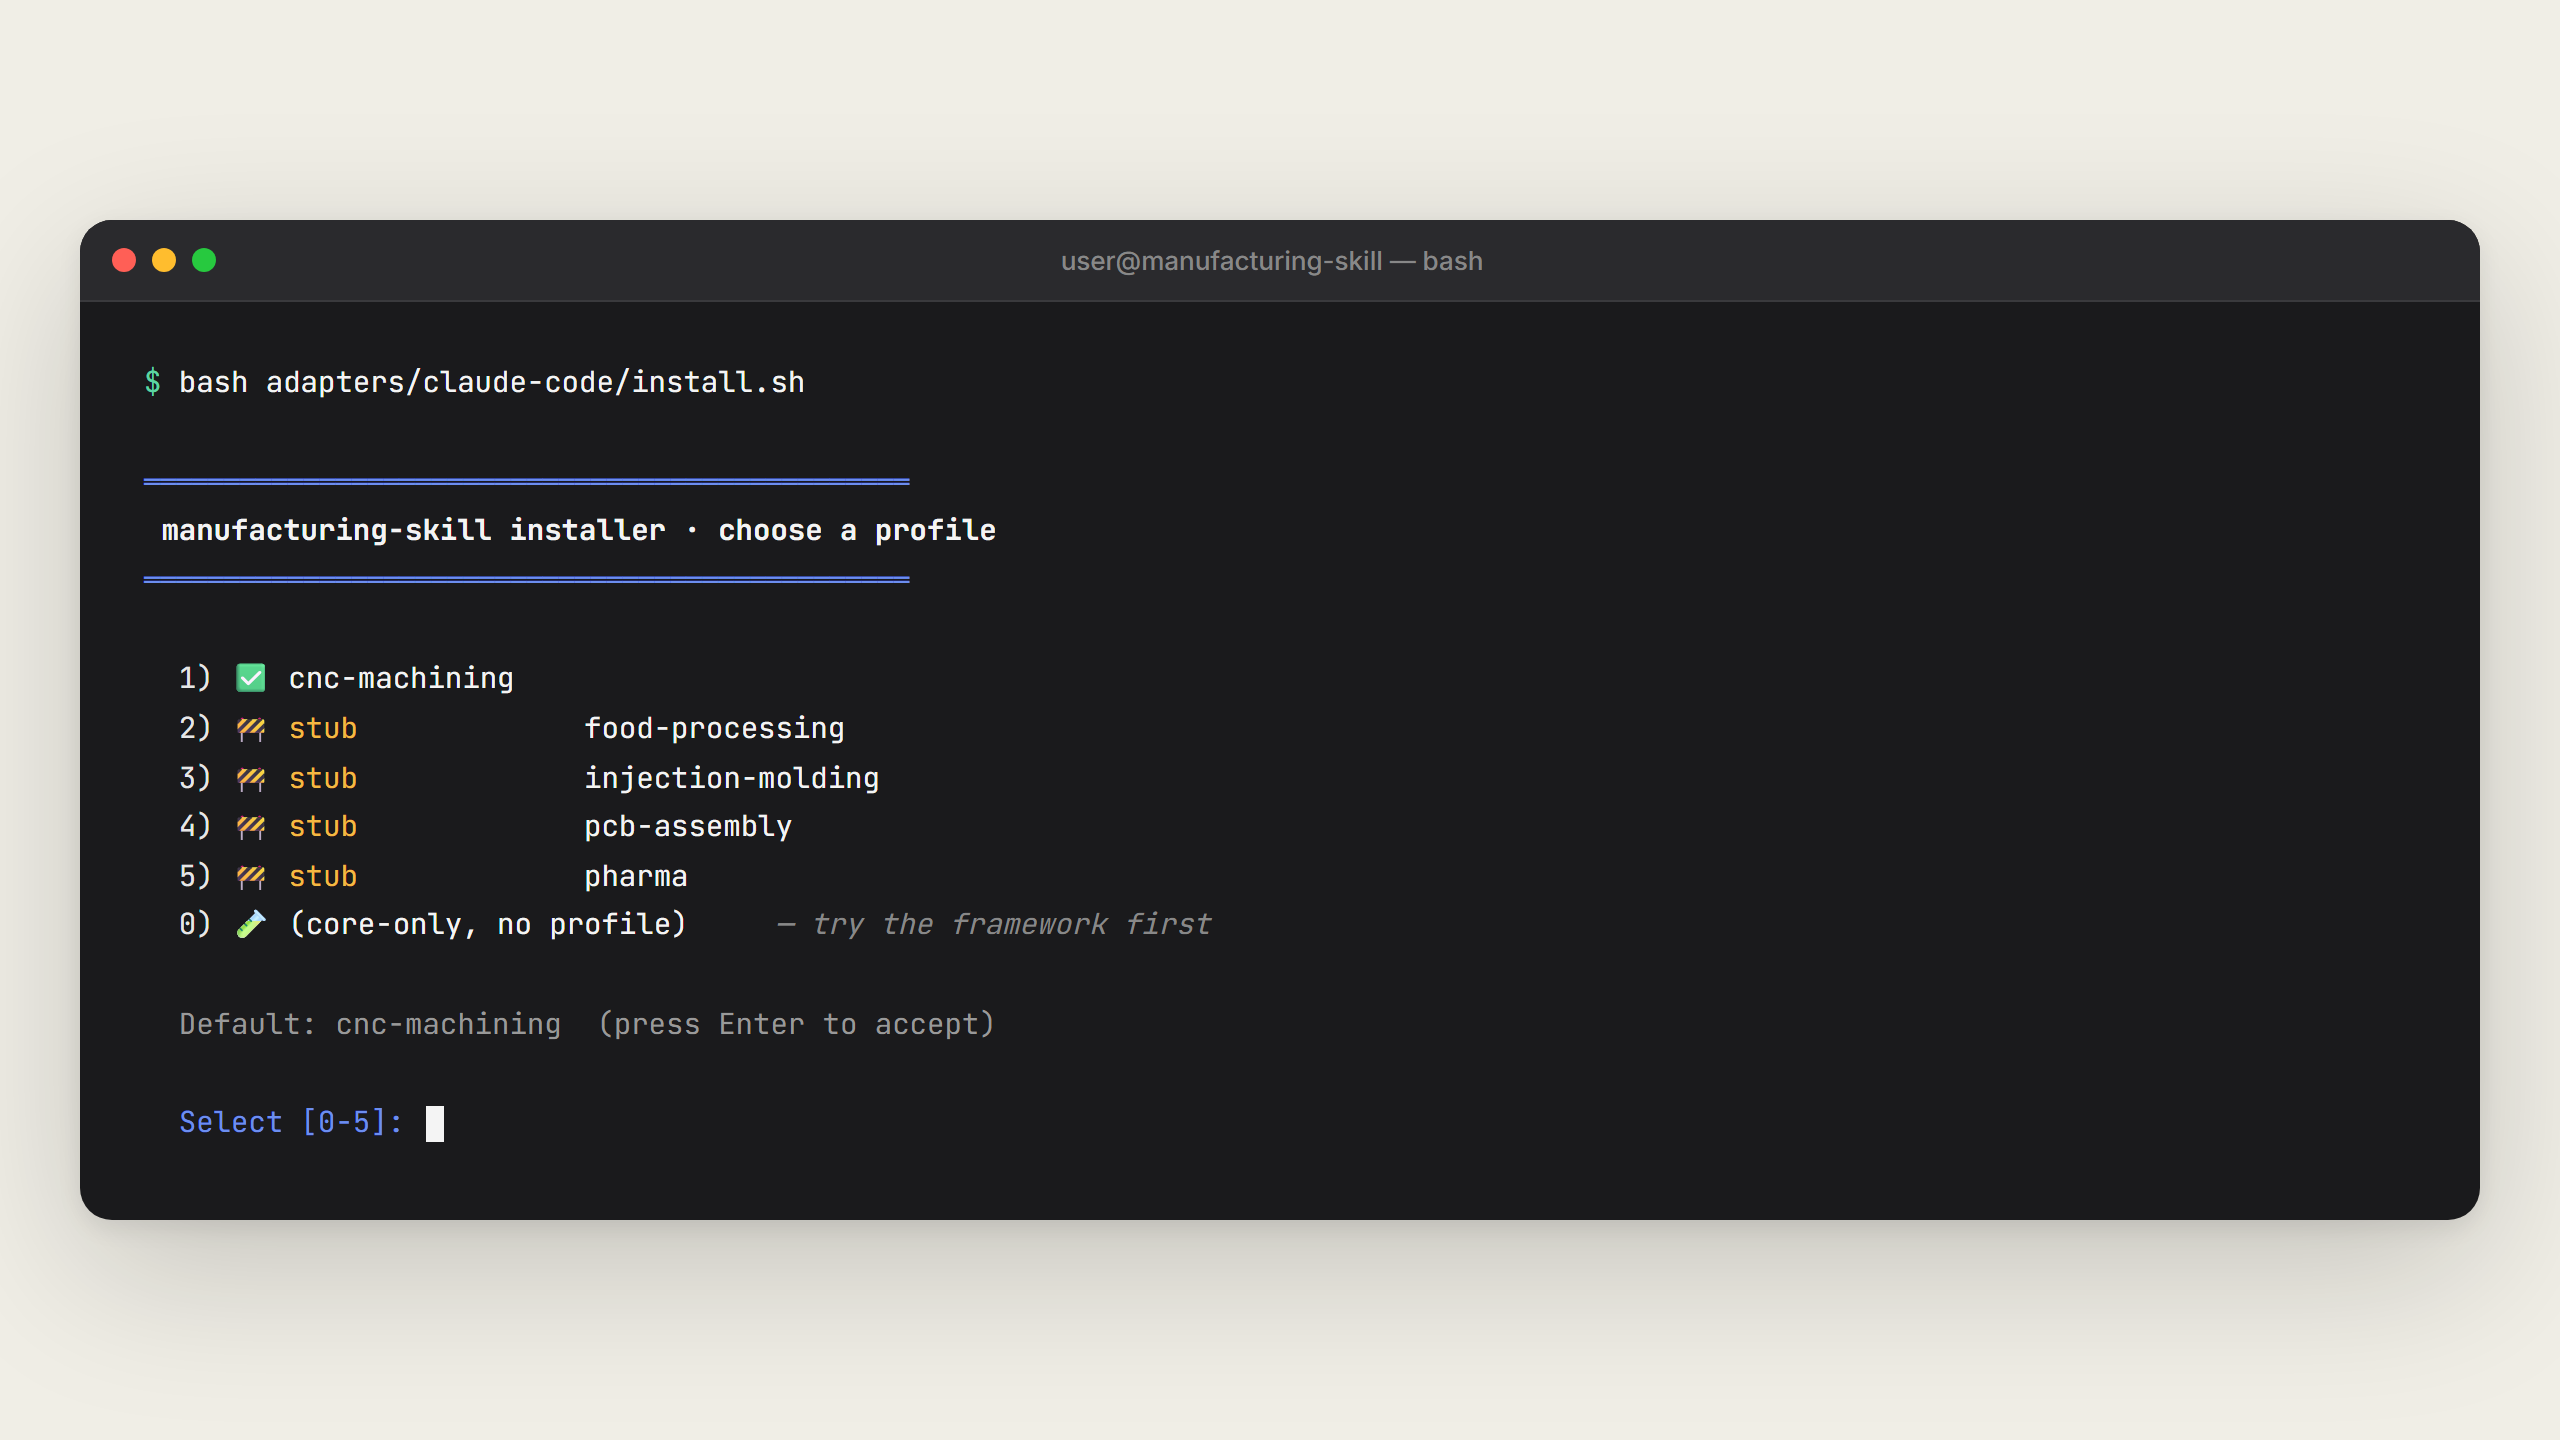
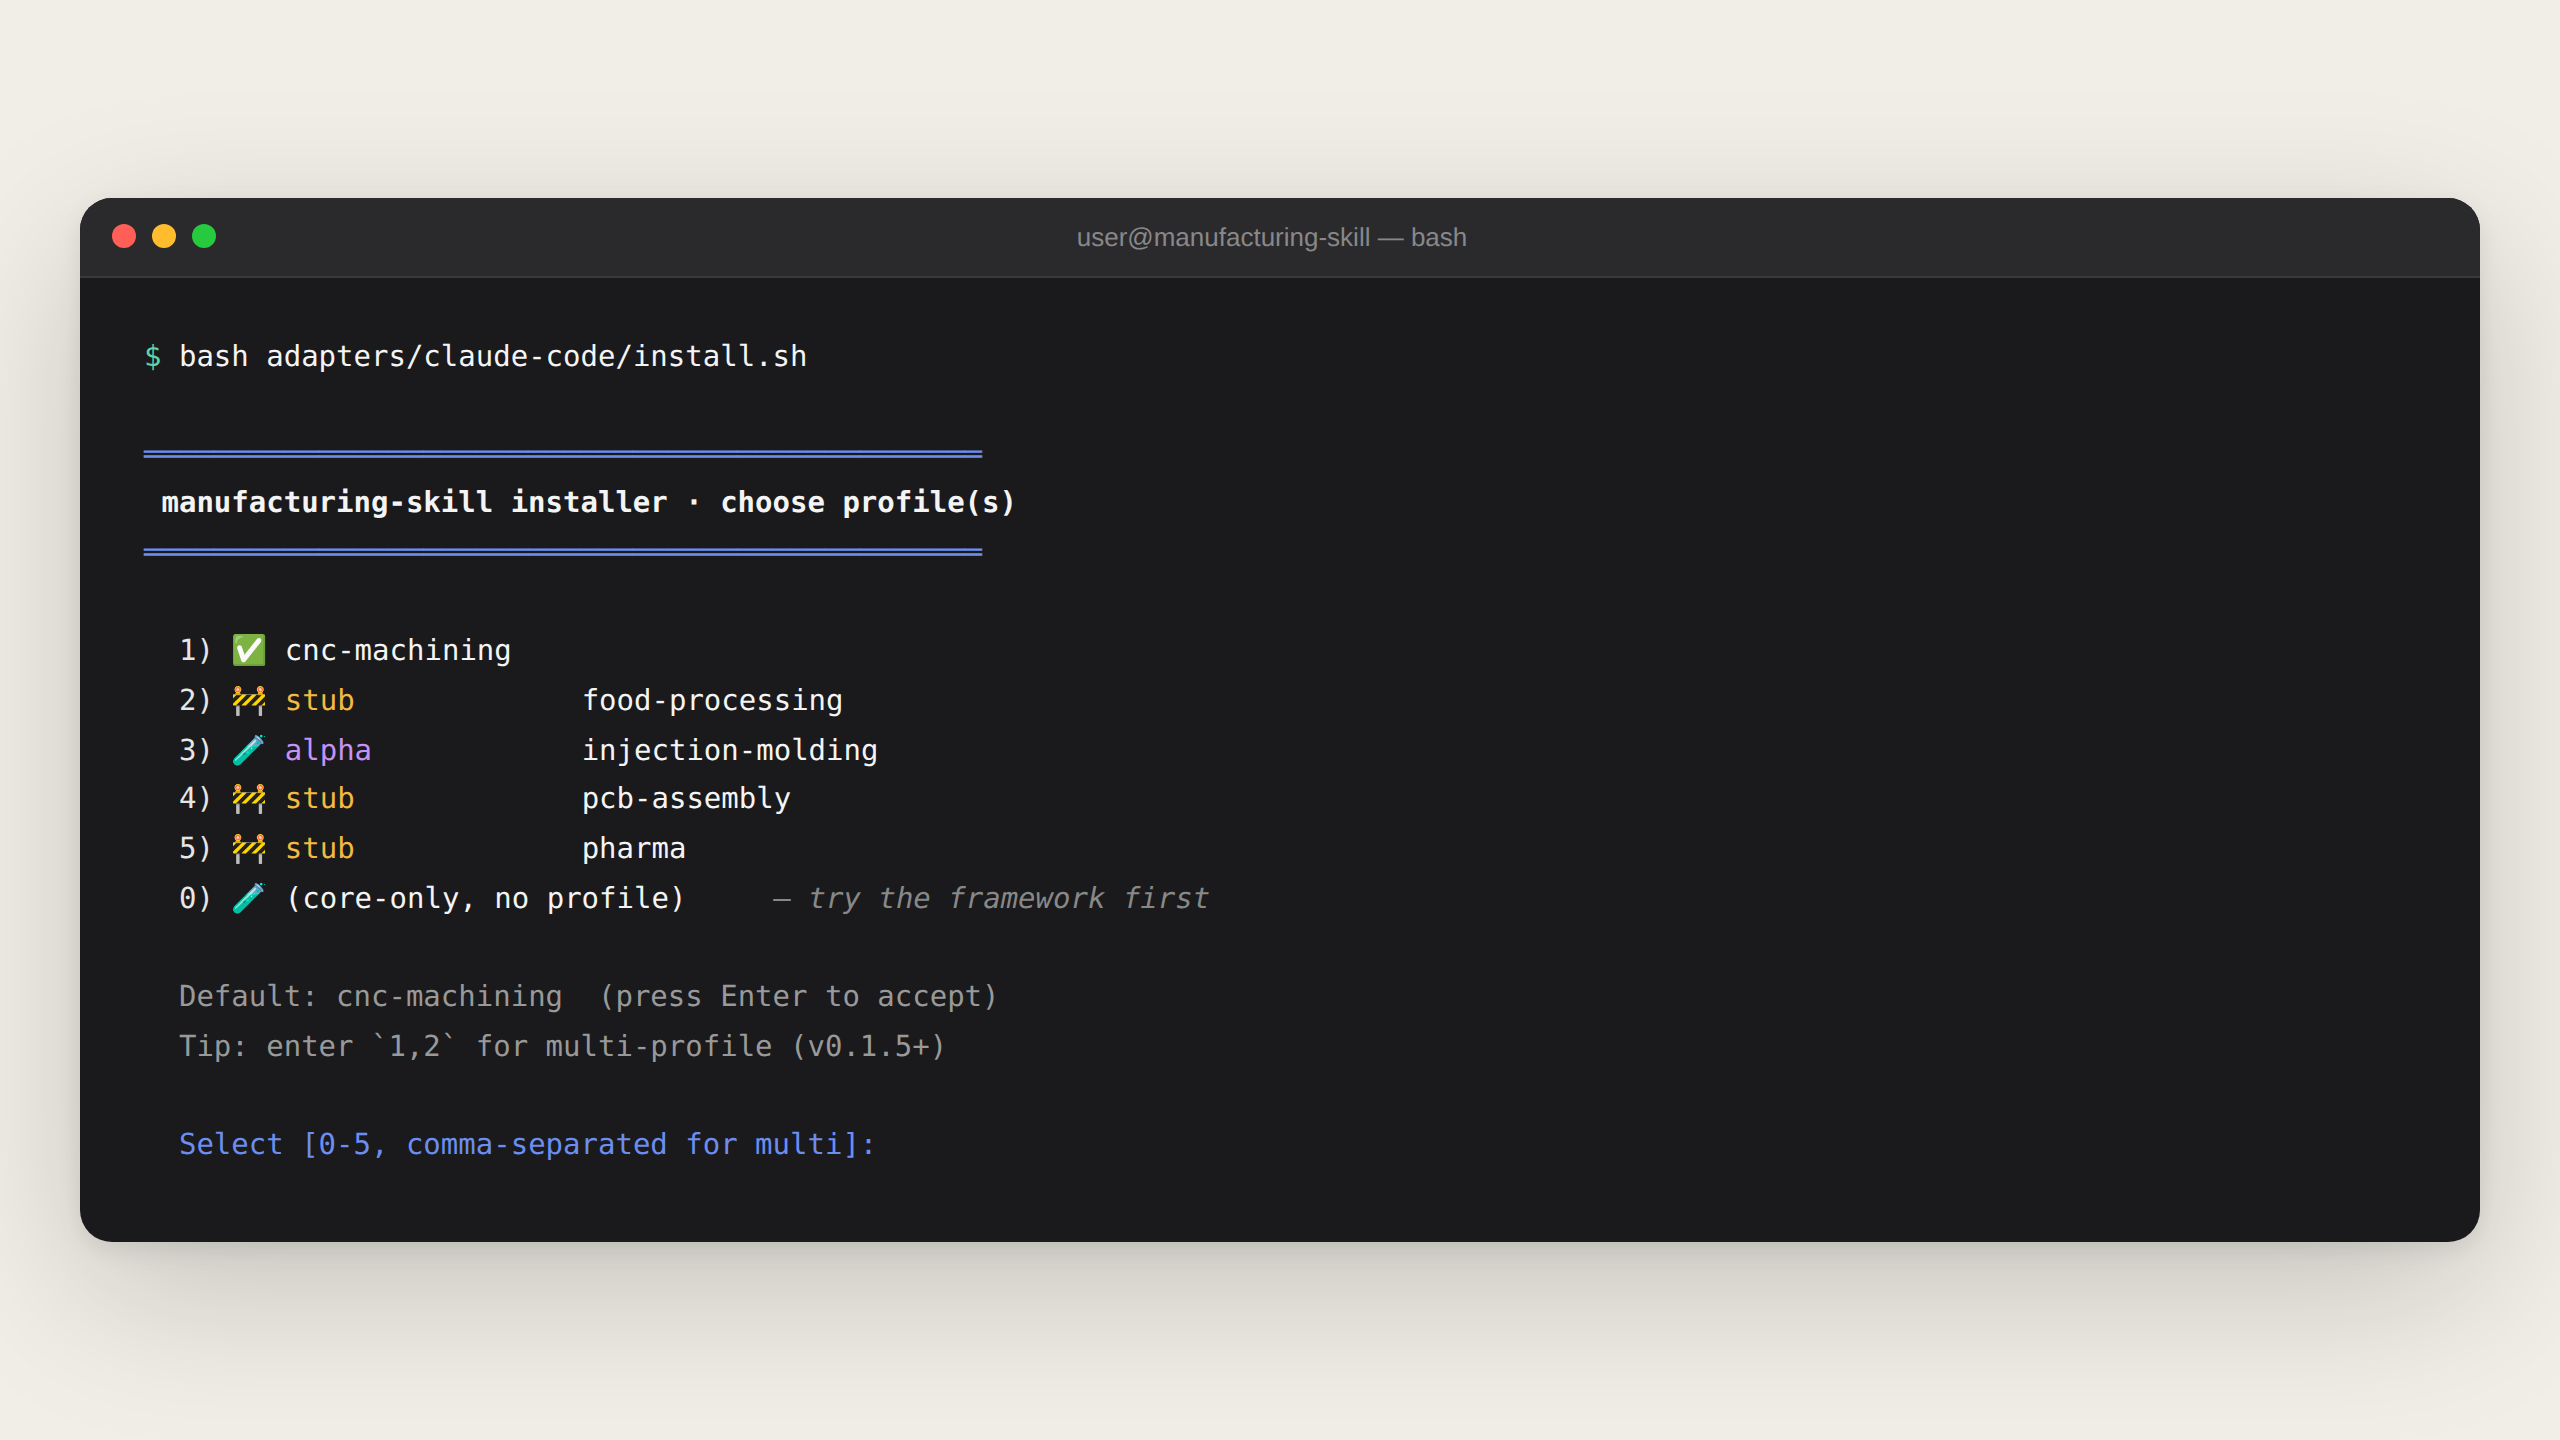
docs(quickstart): step-4 and step-5 mockups match the current installer
- step-5 selector: choose profile(s), alpha badge for injection-molding,
  Tip line and the comma-separated prompt
- step-4 main window: /reload-plugins hint and the claude plugin list check
  after "Installation complete."
- both PNGs re-captured; the "old menu" caption removed

Claude-Session: https://claude.ai/code/session_01RkyarK7wZgTgCM4so4W5zm

diff --git a/docs/quickstart-screenshots/mockups/step5-install-selector.html b/docs/quickstart-screenshots/mockups/step5-install-selector.html
@@ -140,19 +140,20 @@
       <div class="terminal"><span class="prompt-line">$</span> <span class="cmd">bash adapters/claude-code/install.sh</span>
 
 <span class="border">════════════════════════════════════════════════</span>
-<span class="title"> manufacturing-skill installer · choose a profile</span>
+<span class="title"> manufacturing-skill installer · choose profile(s)</span>
 <span class="border">════════════════════════════════════════════════</span>
 
   1) <span class="check">✅</span> <span class="name">cnc-machining</span>
   2) <span class="stub">🚧 stub</span>             <span class="name">food-processing</span>
-  3) <span class="stub">🚧 stub</span>             <span class="name">injection-molding</span>
+  3) <span class="core">🧪 alpha</span>            <span class="name">injection-molding</span>
   4) <span class="stub">🚧 stub</span>             <span class="name">pcb-assembly</span>
   5) <span class="stub">🚧 stub</span>             <span class="name">pharma</span>
   0) <span class="core">🧪</span> <span class="name">(core-only, no profile)</span>     <span class="desc">— try the framework first</span>
 
   <span class="label">Default: cnc-machining  (press Enter to accept)</span>
+  <span class="label">Tip: enter `1,2` for multi-profile (v0.1.5+)</span>
 
-  <span class="default">Select [0-5]:</span> <span class="cursor"></span></div>
+  <span class="default">Select [0-5, comma-separated for multi]:</span> <span class="cursor"></span></div>
     </div>
   </body>
 </html>

diff --git a/docs/quickstart-screenshots/mockups/step4-main-window.html b/docs/quickstart-screenshots/mockups/step4-main-window.html
@@ -367,6 +367,8 @@
             <div class="out">→ Installing core layer...</div>
             <div class="out">→ Overlaying profile: cnc-machining...</div>
             <div class="out">✅ Installation complete.</div>
+            <div class="out">▶ 重新啟動 Claude Code 或執行 /reload-plugins to load it.</div>
+            <div class="out">  Check: claude plugin list   → manufacturing-skill@skills-dir · Status: loaded</div>
             <div><span class="prompt">user</span><span class="out">@manufacturing-skill</span><span class="path"> ~/manufacturing-skill</span> <span class="cmd">$</span> <span class="cursor"></span></div>
           </div>
         </div>

diff --git a/docs/quickstart-for-beginners.zh-TW.md b/docs/quickstart-for-beginners.zh-TW.md
@@ -167,7 +167,7 @@ Select [0-5, comma-separated for multi]:
 
 ![install.sh 安裝選單實際畫面（示意圖）](quickstart-screenshots/step5-install-selector-mockup.png)
 
-> 📸 這張是示意圖，畫的是舊版選單。實際的字以上面的文字框為準（例如射出成型那行現在顯示 `🧪 alpha`）。
+> 📸 示意圖，跟你畫面上看到的選單一樣（產業包清單會隨版本增加）。
 
 ### 3-3 讓 Claude Code 載入 AI 同事，並開在對的資料夾
 
